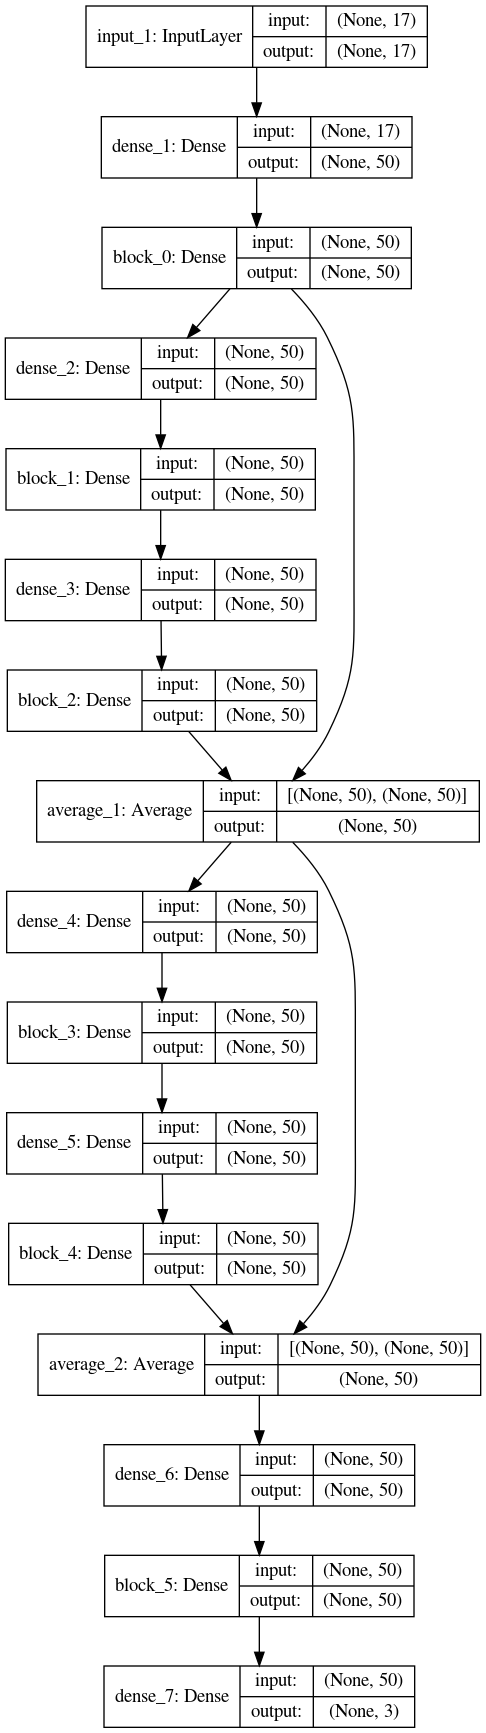
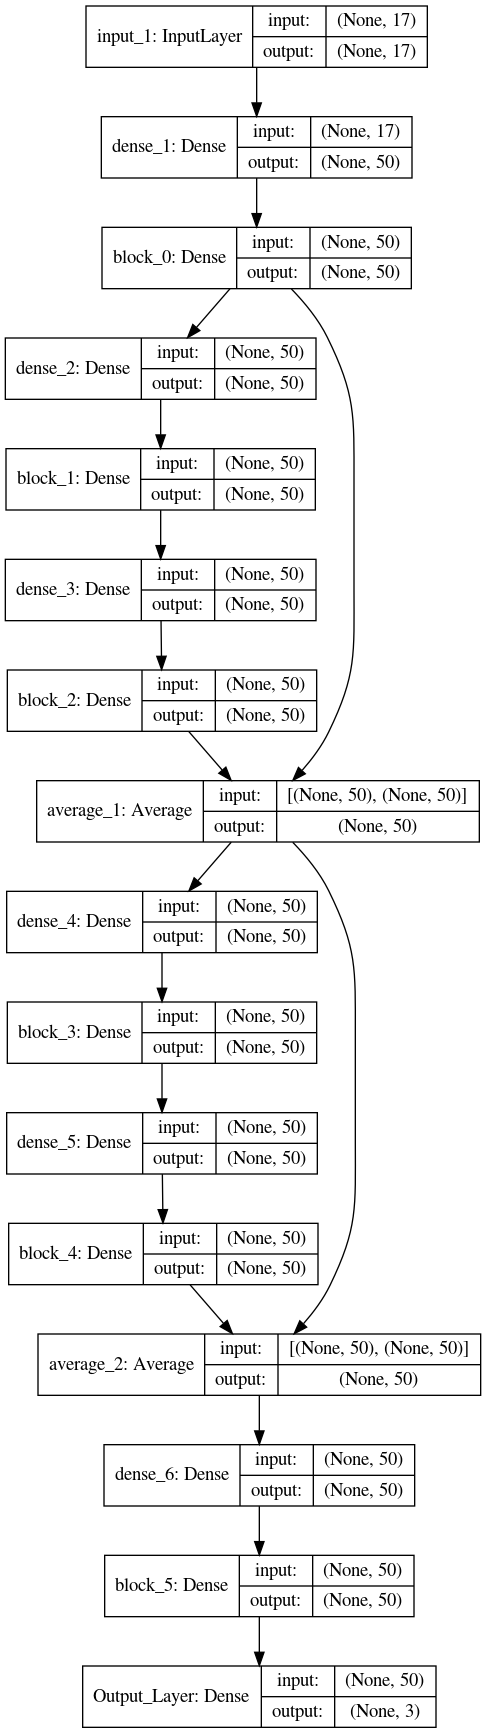
Add try except statment for plot model and add model summary.

Changed region(s): [[0.2469, 0.966, 0.6481, 0.9971], [0.679, 0.966, 0.9259, 0.9971], [0.1543, 0.966, 0.216, 0.9971]]

diff --git a/model.py b/model.py
@@ -27,8 +27,11 @@ def make_model(config):
         if i%config.CONNECT_BLOCK_AT == 0:
             output = average([output, output_shortcut])
             output_shortcut = output
-    model_output = Dense(units = config.OUTPUT_SHAPE, activation = config.ACTIVATION)(output) 
+    model_output = Dense(units = config.OUTPUT_SHAPE, activation = config.ACTIVATION, name = "Output_Layer")(output) 
     model = Model(input, model_output)
-    model.compile(loss = config.LOSS_FUNCTION, optimizer = config.OPTIMIZER)
-    plot_model(model, show_shapes = True)
+    model.summary()
+    try:
+        plot_model(model, show_shapes = True)
+    except:
+        print("Fail to save the model architecture!!")
     return model

diff --git a/mol.py b/mol.py
@@ -66,6 +66,7 @@ class PyMolEnv(gym.Env):
         self.current = self.get_observation()
         # we need to know the initial work to calculate stop loss
         self.initial_work = self.calculate_reward()
+        print("************", self.current.shape)
         return self.current
 
     def undock(self):
